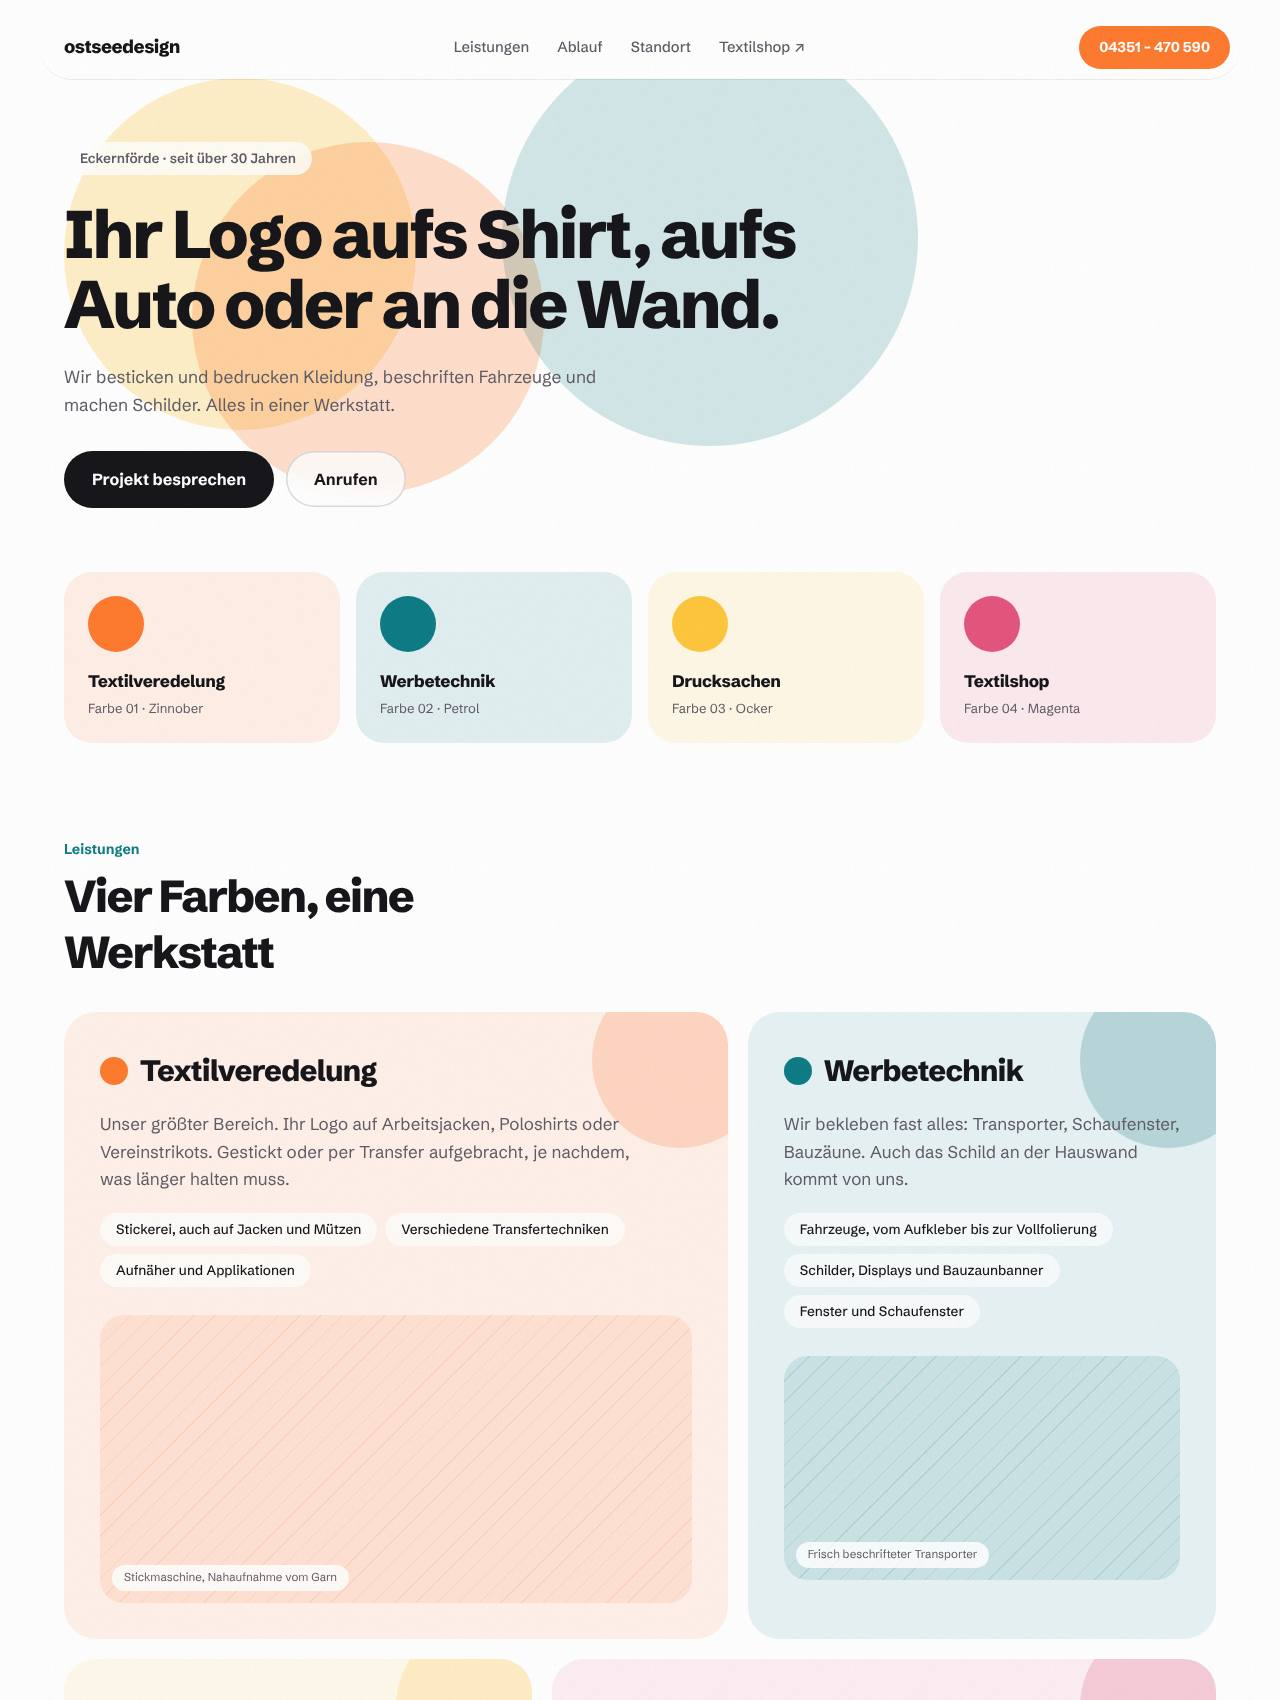
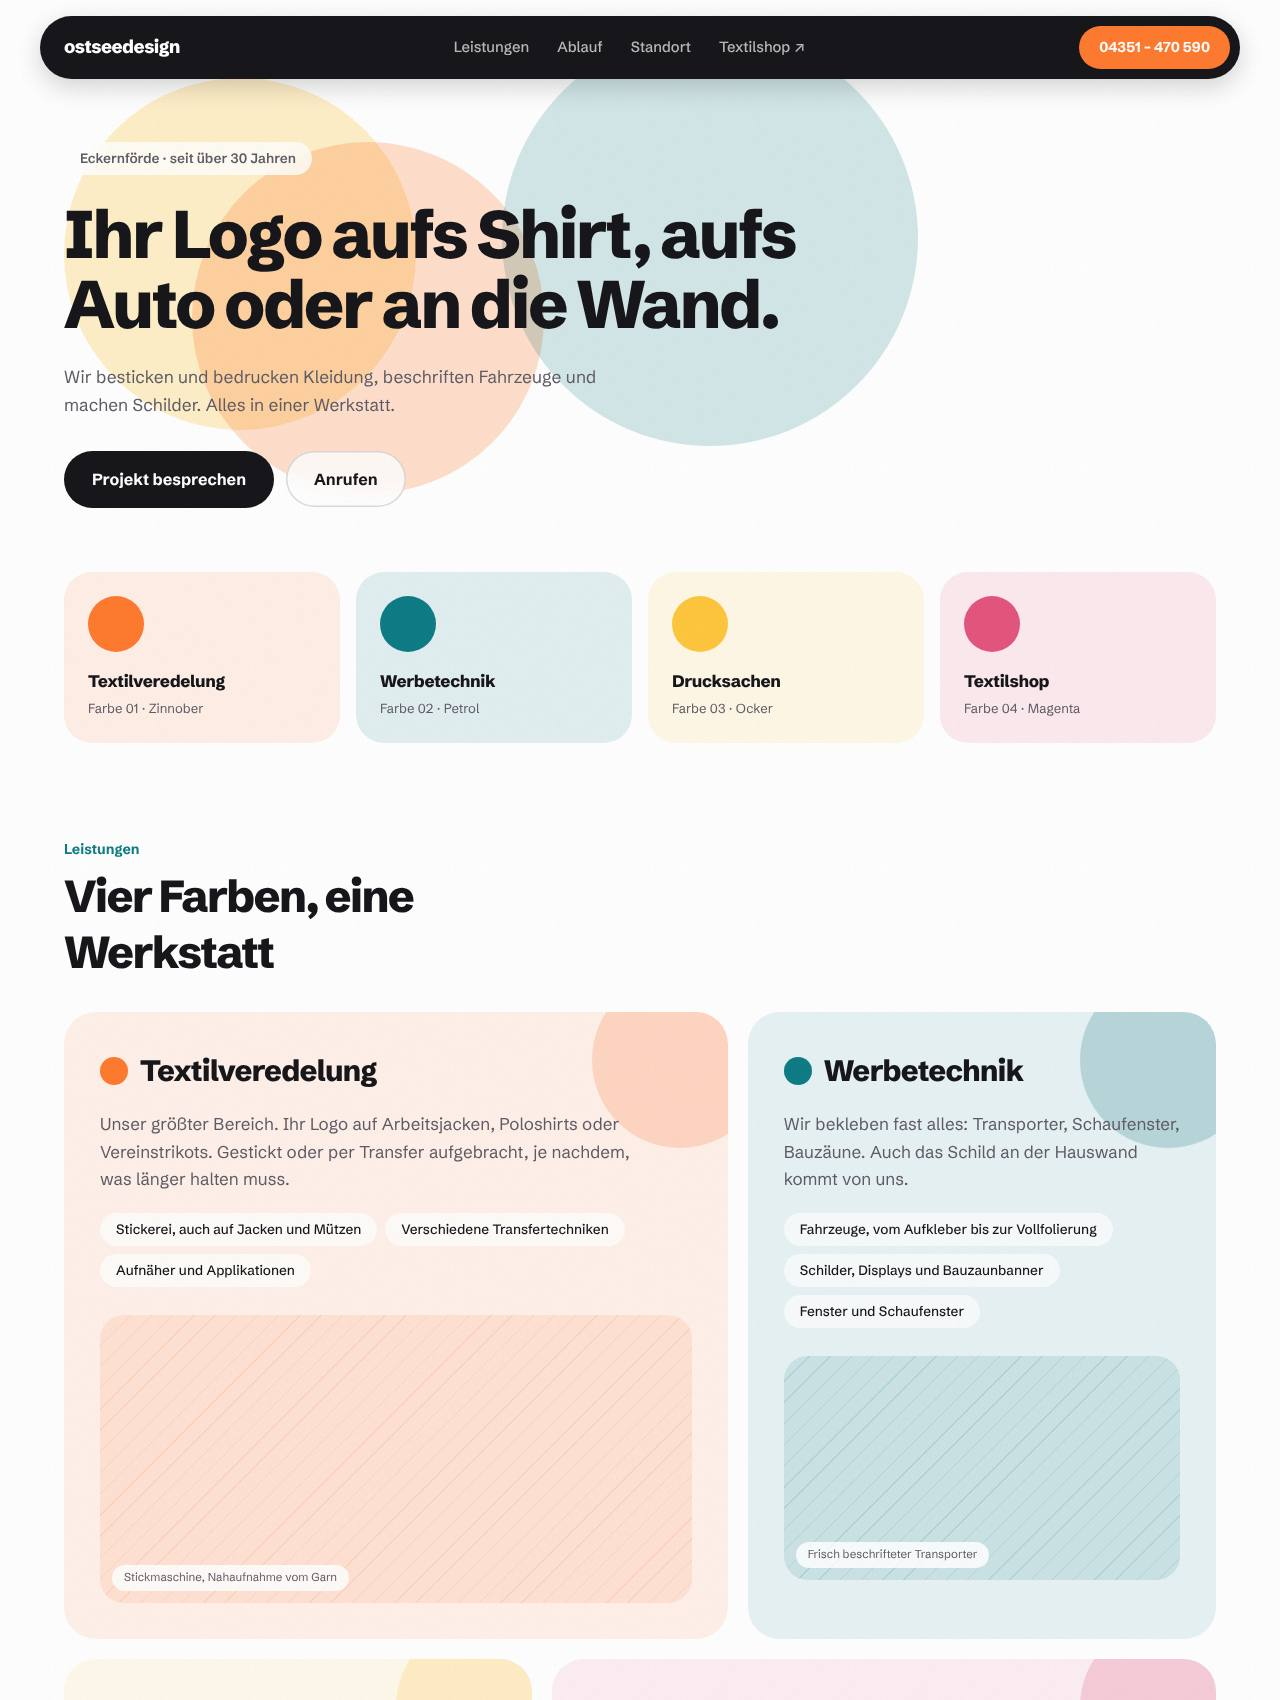
Entwurf 3: Kopfzeile hebt sich ab, Navigation auch auf dem Handy
- Die Kopfzeile war eine weiße Pille auf weißem Grund und dadurch kaum
  zu erkennen. Sie ist jetzt dunkel mit heller Schrift und einem
  weichen Schatten. Der orange Telefon-Knopf darin kommt dadurch
  deutlich besser zur Geltung.
- Auf dem Handy fehlte die Navigation ganz (sie war erst ab Tablet
  sichtbar). Unter der Kopfzeile steht jetzt eine seitlich schiebbare
  Reihe von Marken – jede in der Farbe ihres Bereichs, Schrift dunkel,
  damit sie auch auf Gelb gut lesbar bleibt.

Vorschaubilder nachgezogen.

Claude-Session: https://claude.ai/code/session_0171ck9XiJE1Gexnh96PGEx6

Changed region(s): [[0.0312, 0.0, 0.9688, 0.0624]]

diff --git a/src/app/entwurf-3/page.tsx b/src/app/entwurf-3/page.tsx
@@ -84,27 +84,33 @@ export default function Entwurf3Page() {
       <VariantBar current={3} />
 
       <div className="min-h-screen bg-white font-schibsted antialiased" style={{ color: TINTE }}>
-        {/* ── Kopfzeile als schwebende Pille ──────────────────────────── */}
+        {/* ── Kopfzeile als schwebende Pille ────────────────────────────
+            Dunkel statt weiß: Auf der weißen Seite war eine weiße Leiste
+            kaum zu erkennen. Jetzt hebt sie sich klar ab, und der bunte
+            Telefon-Knopf darin kommt besser zur Geltung. */}
         <header className="sticky top-0 z-40 px-4 pt-4 sm:px-6">
-          <div className="mx-auto flex w-full max-w-[1200px] items-center justify-between gap-4 rounded-full bg-white/85 py-2.5 pl-6 pr-2.5 shadow-[0_1px_0_rgba(23,22,26,0.08)] backdrop-blur">
+          <div
+            className="mx-auto flex w-full max-w-[1200px] items-center justify-between gap-4 rounded-full py-2.5 pl-6 pr-2.5 text-white shadow-[0_8px_24px_rgba(23,22,26,0.18)]"
+            style={{ backgroundColor: TINTE }}
+          >
             <Link href="/entwurf-3" className="text-[1.15rem] font-extrabold tracking-[-0.03em]">
               ostseedesign
             </Link>
-            <nav className="hidden items-center gap-7 text-[0.92rem] font-medium lg:flex" style={{ color: LEISE }}>
-              <a href="#leistungen" className="hover:text-[#17161a]">
+            <nav className="hidden items-center gap-7 text-[0.92rem] font-medium text-white/70 lg:flex">
+              <a href="#leistungen" className="hover:text-white">
                 Leistungen
               </a>
-              <a href="#ablauf" className="hover:text-[#17161a]">
+              <a href="#ablauf" className="hover:text-white">
                 Ablauf
               </a>
-              <a href="#standort" className="hover:text-[#17161a]">
+              <a href="#standort" className="hover:text-white">
                 Standort
               </a>
               <a
                 href={textilShopUrl}
                 target="_blank"
                 rel="noopener noreferrer"
-                className="hover:text-[#17161a]"
+                className="hover:text-white"
               >
                 Textilshop ↗
               </a>
@@ -120,6 +126,30 @@ export default function Entwurf3Page() {
         </header>
 
         <main id="hauptinhalt" className="mx-auto w-full max-w-[1200px] px-4 sm:px-6">
+          {/* Auf dem Handy ersetzt diese Reihe die Navigation. Jede Marke
+              trägt die Farbe ihres Bereichs. */}
+          <div className="mt-5 flex gap-2 overflow-x-auto pb-1 [-ms-overflow-style:none] [scrollbar-width:none] lg:hidden [&::-webkit-scrollbar]:hidden">
+            {[
+              ["Leistungen", "#leistungen", farben[0].ton],
+              ["Ablauf", "#ablauf", farben[1].ton],
+              ["Standort", "#standort", farben[2].ton],
+              ["Kontakt", "#kontakt", farben[3].ton],
+              ["Textilshop ↗", textilShopUrl, TINTE],
+            ].map(([label, href, ton]) => (
+              <a
+                key={label}
+                href={href}
+                {...(href.startsWith("http")
+                  ? { target: "_blank", rel: "noopener noreferrer" }
+                  : {})}
+                className="shrink-0 rounded-full px-4 py-2 text-[0.85rem] font-semibold"
+                style={{ backgroundColor: `${ton}2e`, color: TINTE }}
+              >
+                {label}
+              </a>
+            ))}
+          </div>
+
           {/* ── Auftakt ────────────────────────────────────────────────
               Hinter der Schlagzeile liegen drei Kreise übereinander. Sie
               sind halb durchsichtig und mischen sich dort, wo sie sich
